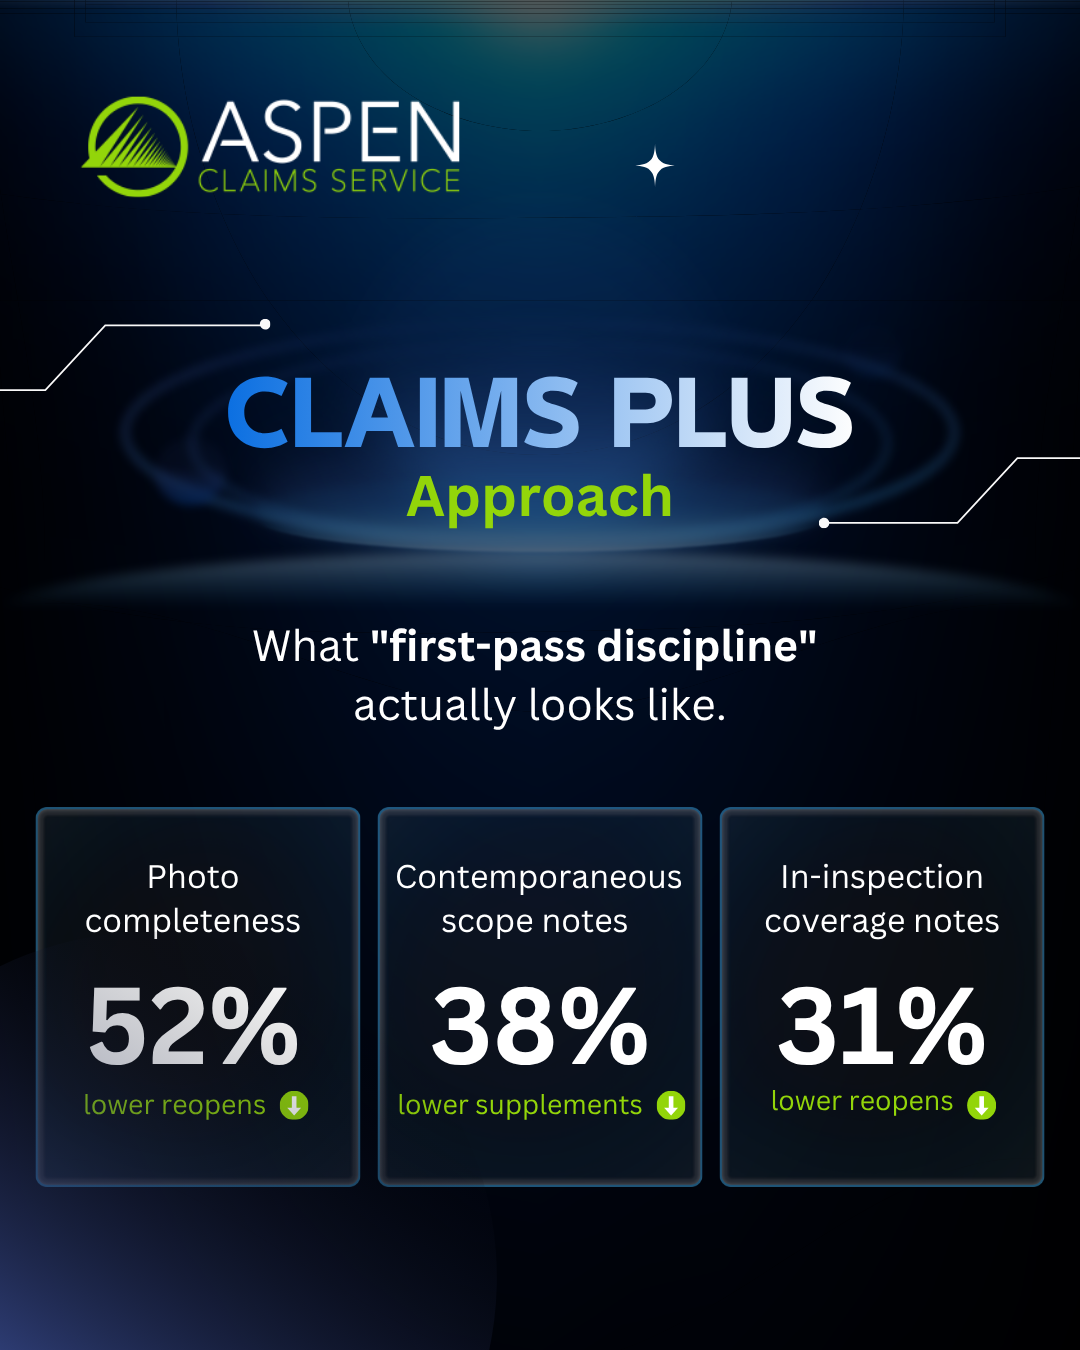
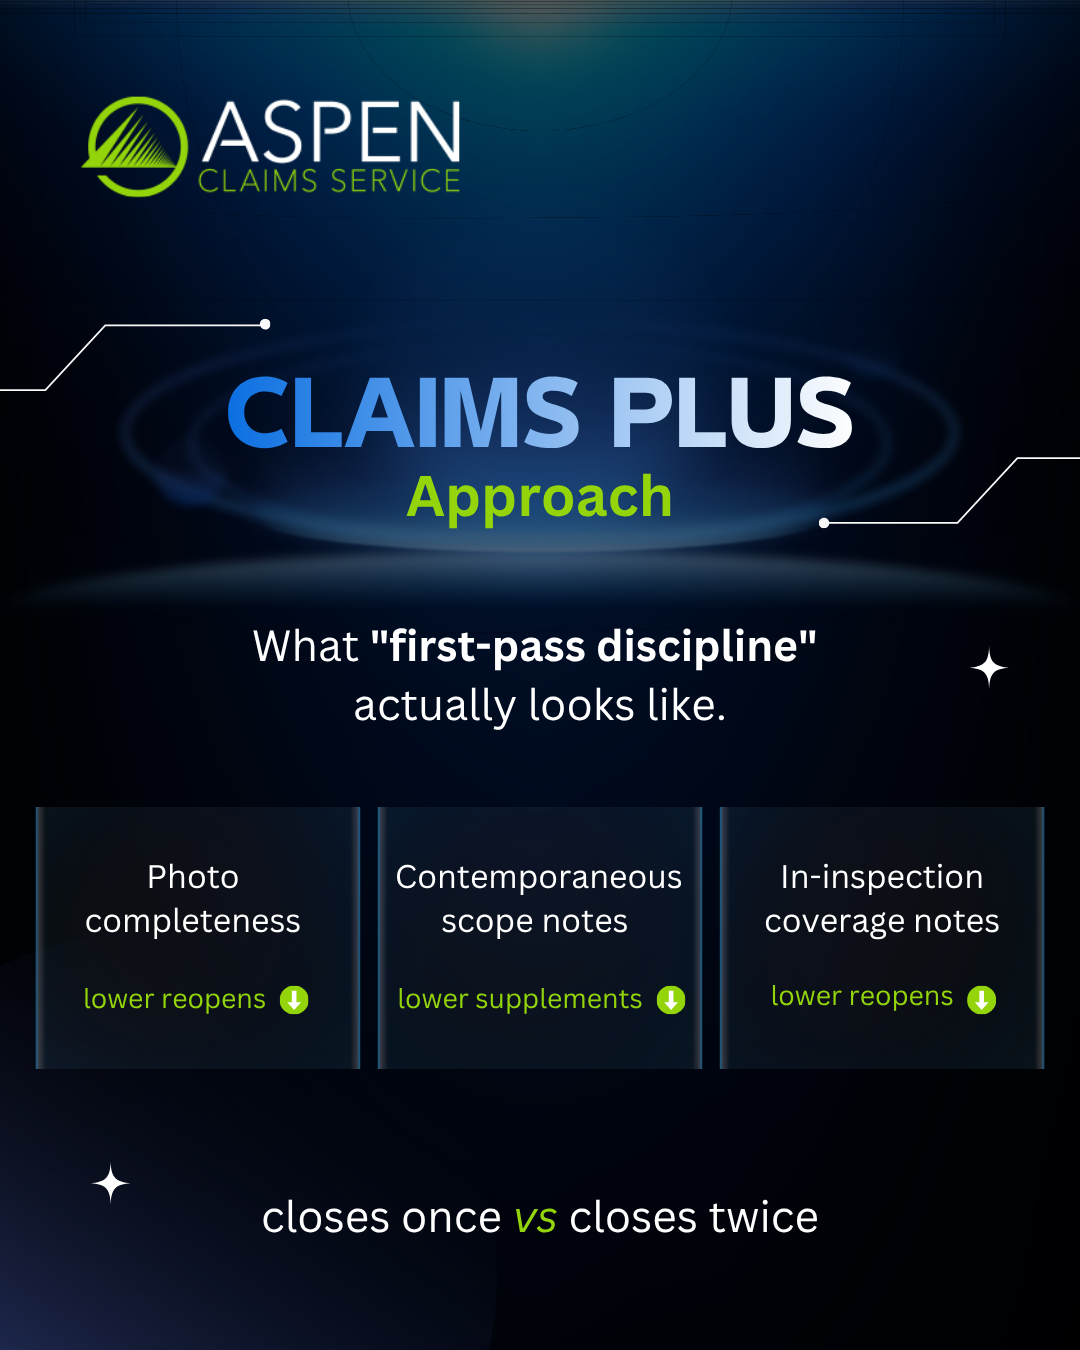
Add 12 June & 22 June as publish-ready; refresh 1 June to final locked copy
- 12 June carousel: Frame 02 reissued as scope-capture frame (was 1 June's
  old "adjuster within 4 business hours" copy by mistake). Flagged Frame 06
  "FFollow" typo as an open note, not blocking.
- 22 June ClaimsPlus static: 52/38/31% figures stripped; three-step explainer
  and "closes once vs closes twice" kept.
- 1 June frames regenerated from final locked version (Frame 06 "ever reaches",
  closing period on Frame 07).
- Calendar tiles for 12 & 22 June now clickable; intro updated to ten posts.

diff --git a/index.html b/index.html
@@ -368,11 +368,10 @@
         <div class="cal-cell"><div class="date-num">11</div></div>
         <div class="cal-cell">
           <div class="date-num">12</div>
-          <div class="cal-post post-p1 in-design">
+          <a class="cal-post post-p1" href="#p-jun12">
             <div class="p-pillar">P1 · Carousel</div>
             Scope of damage
-            <span class="id-tag">In design</span>
-          </div>
+          </a>
         </div>
         <div class="cal-cell"><div class="date-num">13</div></div>
         <div class="cal-cell"><div class="date-num">14</div></div>
@@ -414,11 +413,10 @@
         <div class="cal-week"><div class="w">Wk 26</div><div class="d">Jun 22–28</div></div>
         <div class="cal-cell">
           <div class="date-num">22</div>
-          <div class="cal-post post-p1 in-design">
+          <a class="cal-post post-p1" href="#p-jun22">
             <div class="p-pillar">P1 · Static</div>
             ClaimsPlus 3-step
-            <span class="id-tag">In design</span>
-          </div>
+          </a>
         </div>
         <div class="cal-cell"><div class="date-num">23</div></div>
         <div class="cal-cell">
@@ -453,8 +451,8 @@
   <!-- POSTS -->
   <section class="section">
     <div class="section-head">
-      <h2><span class="num">02</span>The eight posts ready for review</h2>
-      <div class="ctx">Each card shows the final design — LinkedIn-native preview. The four in-design posts (5, 12, 17, 22 June) come back to you once they're past production.</div>
+      <h2><span class="num">02</span>The ten posts ready for review</h2>
+      <div class="ctx">Each card shows the final design — LinkedIn-native preview. 12 June and 22 June are now past production and added below. The two remaining in-design posts (5, 17 June) come back to you once they're built.</div>
     </div>
 
     <div class="posts-grid">
@@ -586,6 +584,55 @@ Documentation discipline isn't a legal play. It's how the carrier desk closes on
         </div>
       </div>
 
+      <!-- 12 JUNE -->
+      <div class="post-card" id="p-jun12">
+        <div class="pc-head">
+          <div class="pc-date"><div class="d">12</div><div class="m">June · Fri</div></div>
+          <div style="display:flex;gap:6px;"><span class="format-pill">Carousel · 6 frames</span><span class="pc-pillar pill-p1">Pillar 1</span></div>
+        </div>
+        <div class="li-frame">
+          <div class="li-author">
+            <div class="li-avatar"><span class="li-avatar-text">A</span></div>
+            <div class="li-meta">
+              <div class="li-name">Aspen Claims Service</div>
+              <div class="li-tagline">Independent Adjuster Network · Carrier-side outsourcing</div>
+              <div class="li-time">12 Jun 2026 · 🌐</div>
+            </div>
+          </div>
+          <p class="li-caption">What's actually in a scope of damage — and what separates a clean file from one that comes back.
+
+Part 02 of how claims actually work. The scope is the file: built right the first time, or rebuilt later through a supplement no one wants.
+Swipe →
+
+<span class="hashtag">#ClaimsWithAspen</span> <span class="hashtag">#ScopeOfDamage</span> <span class="hashtag">#PropertyClaims</span></p>
+          <div class="carousel" data-carousel>
+            <div class="carousel-counter"><span class="cur">1</span>/<span class="tot">6</span></div>
+            <button class="carousel-nav prev" data-dir="-1">‹</button>
+            <button class="carousel-nav next" data-dir="1">›</button>
+            <div class="carousel-track">
+              <div class="carousel-slide"><img src="visuals/june12-f01.png" alt="Frame 1"/></div>
+              <div class="carousel-slide"><img src="visuals/june12-f02.png" alt="Frame 2"/></div>
+              <div class="carousel-slide"><img src="visuals/june12-f03.png" alt="Frame 3"/></div>
+              <div class="carousel-slide"><img src="visuals/june12-f04.png" alt="Frame 4"/></div>
+              <div class="carousel-slide"><img src="visuals/june12-f05.png" alt="Frame 5"/></div>
+              <div class="carousel-slide"><img src="visuals/june12-f06.png" alt="Frame 6"/></div>
+            </div>
+          </div>
+          <div class="li-bar"><div class="b">👍 Like</div><div class="b">💬 Comment</div><div class="b">🔁 Repost</div><div class="b">📤 Send</div></div>
+        </div>
+        <div class="pc-status">
+          <div class="status-row"><span class="status-pill s-approved">Publish-ready</span></div>
+          <div class="pc-note">
+            <span class="lbl">Frame 02 reissued</span>
+            The earlier draft carried 1 June's "adjuster assigned within 4 business hours" copy by mistake — now rebuilt as the intended <strong>"What complete scope capture looks like"</strong> frame. Frames 01, 03–06 unchanged.
+          </div>
+          <div class="fix-note">
+            <span class="lbl">One small typo to clean before publish</span>
+            Frame 06 footer reads "<span class="strike">FFollow Aspen Claims</span>" (double F). Sending back to design for the one-character fix — not blocking your review of the content.
+          </div>
+        </div>
+      </div>
+
       <!-- 15 JUNE -->
       <div class="post-card" id="p-jun15">
         <div class="pc-head">
@@ -645,6 +692,38 @@ The field complexity is ours to manage.
         </div>
         <div class="pc-status">
           <div class="status-row"><span class="status-pill s-approved">Publish-ready</span></div>
+        </div>
+      </div>
+
+      <!-- 22 JUNE -->
+      <div class="post-card" id="p-jun22">
+        <div class="pc-head">
+          <div class="pc-date"><div class="d">22</div><div class="m">June · Mon</div></div>
+          <div style="display:flex;gap:6px;"><span class="format-pill">Static</span><span class="pc-pillar pill-p1">Pillar 1</span></div>
+        </div>
+        <div class="li-frame">
+          <div class="li-author">
+            <div class="li-avatar"><span class="li-avatar-text">A</span></div>
+            <div class="li-meta">
+              <div class="li-name">Aspen Claims Service</div>
+              <div class="li-tagline">Independent Adjuster Network · Carrier-side outsourcing</div>
+              <div class="li-time">22 Jun 2026 · 🌐</div>
+            </div>
+          </div>
+          <p class="li-caption">First-pass discipline is what keeps a file from coming back.
+
+Our ClaimsPlus approach captures three things up front — photo completeness, contemporaneous scope notes, and coverage rationale in-line — so the file closes once, not twice.
+
+<span class="hashtag">#ClaimsWithAspen</span> <span class="hashtag">#ClaimsPlus</span> <span class="hashtag">#PropertyClaims</span></p>
+          <div class="li-media"><img src="visuals/june22.png" alt="22 June ClaimsPlus 3-step visual"/></div>
+          <div class="li-bar"><div class="b">👍 Like</div><div class="b">💬 Comment</div><div class="b">🔁 Repost</div><div class="b">📤 Send</div></div>
+        </div>
+        <div class="pc-status">
+          <div class="status-row"><span class="status-pill s-approved">Publish-ready</span></div>
+          <div class="pc-note">
+            <span class="lbl">Percentages removed</span>
+            The 52% / 38% / 31% figures are off the visual — they're measured outcomes Aspen would be held to. The three-step ClaimsPlus explainer and the "closes once <em>vs</em> closes twice" line are kept; that's the post.
+          </div>
         </div>
       </div>
 
@@ -729,8 +808,8 @@ Swipe →
   </section>
 
   <div class="footer">
-    <strong>Aspen Claims Service · LinkedIn calendar · June 2026 · v2</strong><br/>
-    Final designs prepared by Damco Digital — review post 21 May Aspen weekly catchup.<br/>
+    <strong>Aspen Claims Service · LinkedIn calendar · June 2026 · v3</strong><br/>
+    Final designs prepared by Damco Digital — 12 June &amp; 22 June added after production rework (11 Jun).<br/>
     Questions? Reply to <a href="mailto:[email redacted]">[email redacted]</a>.
   </div>
 